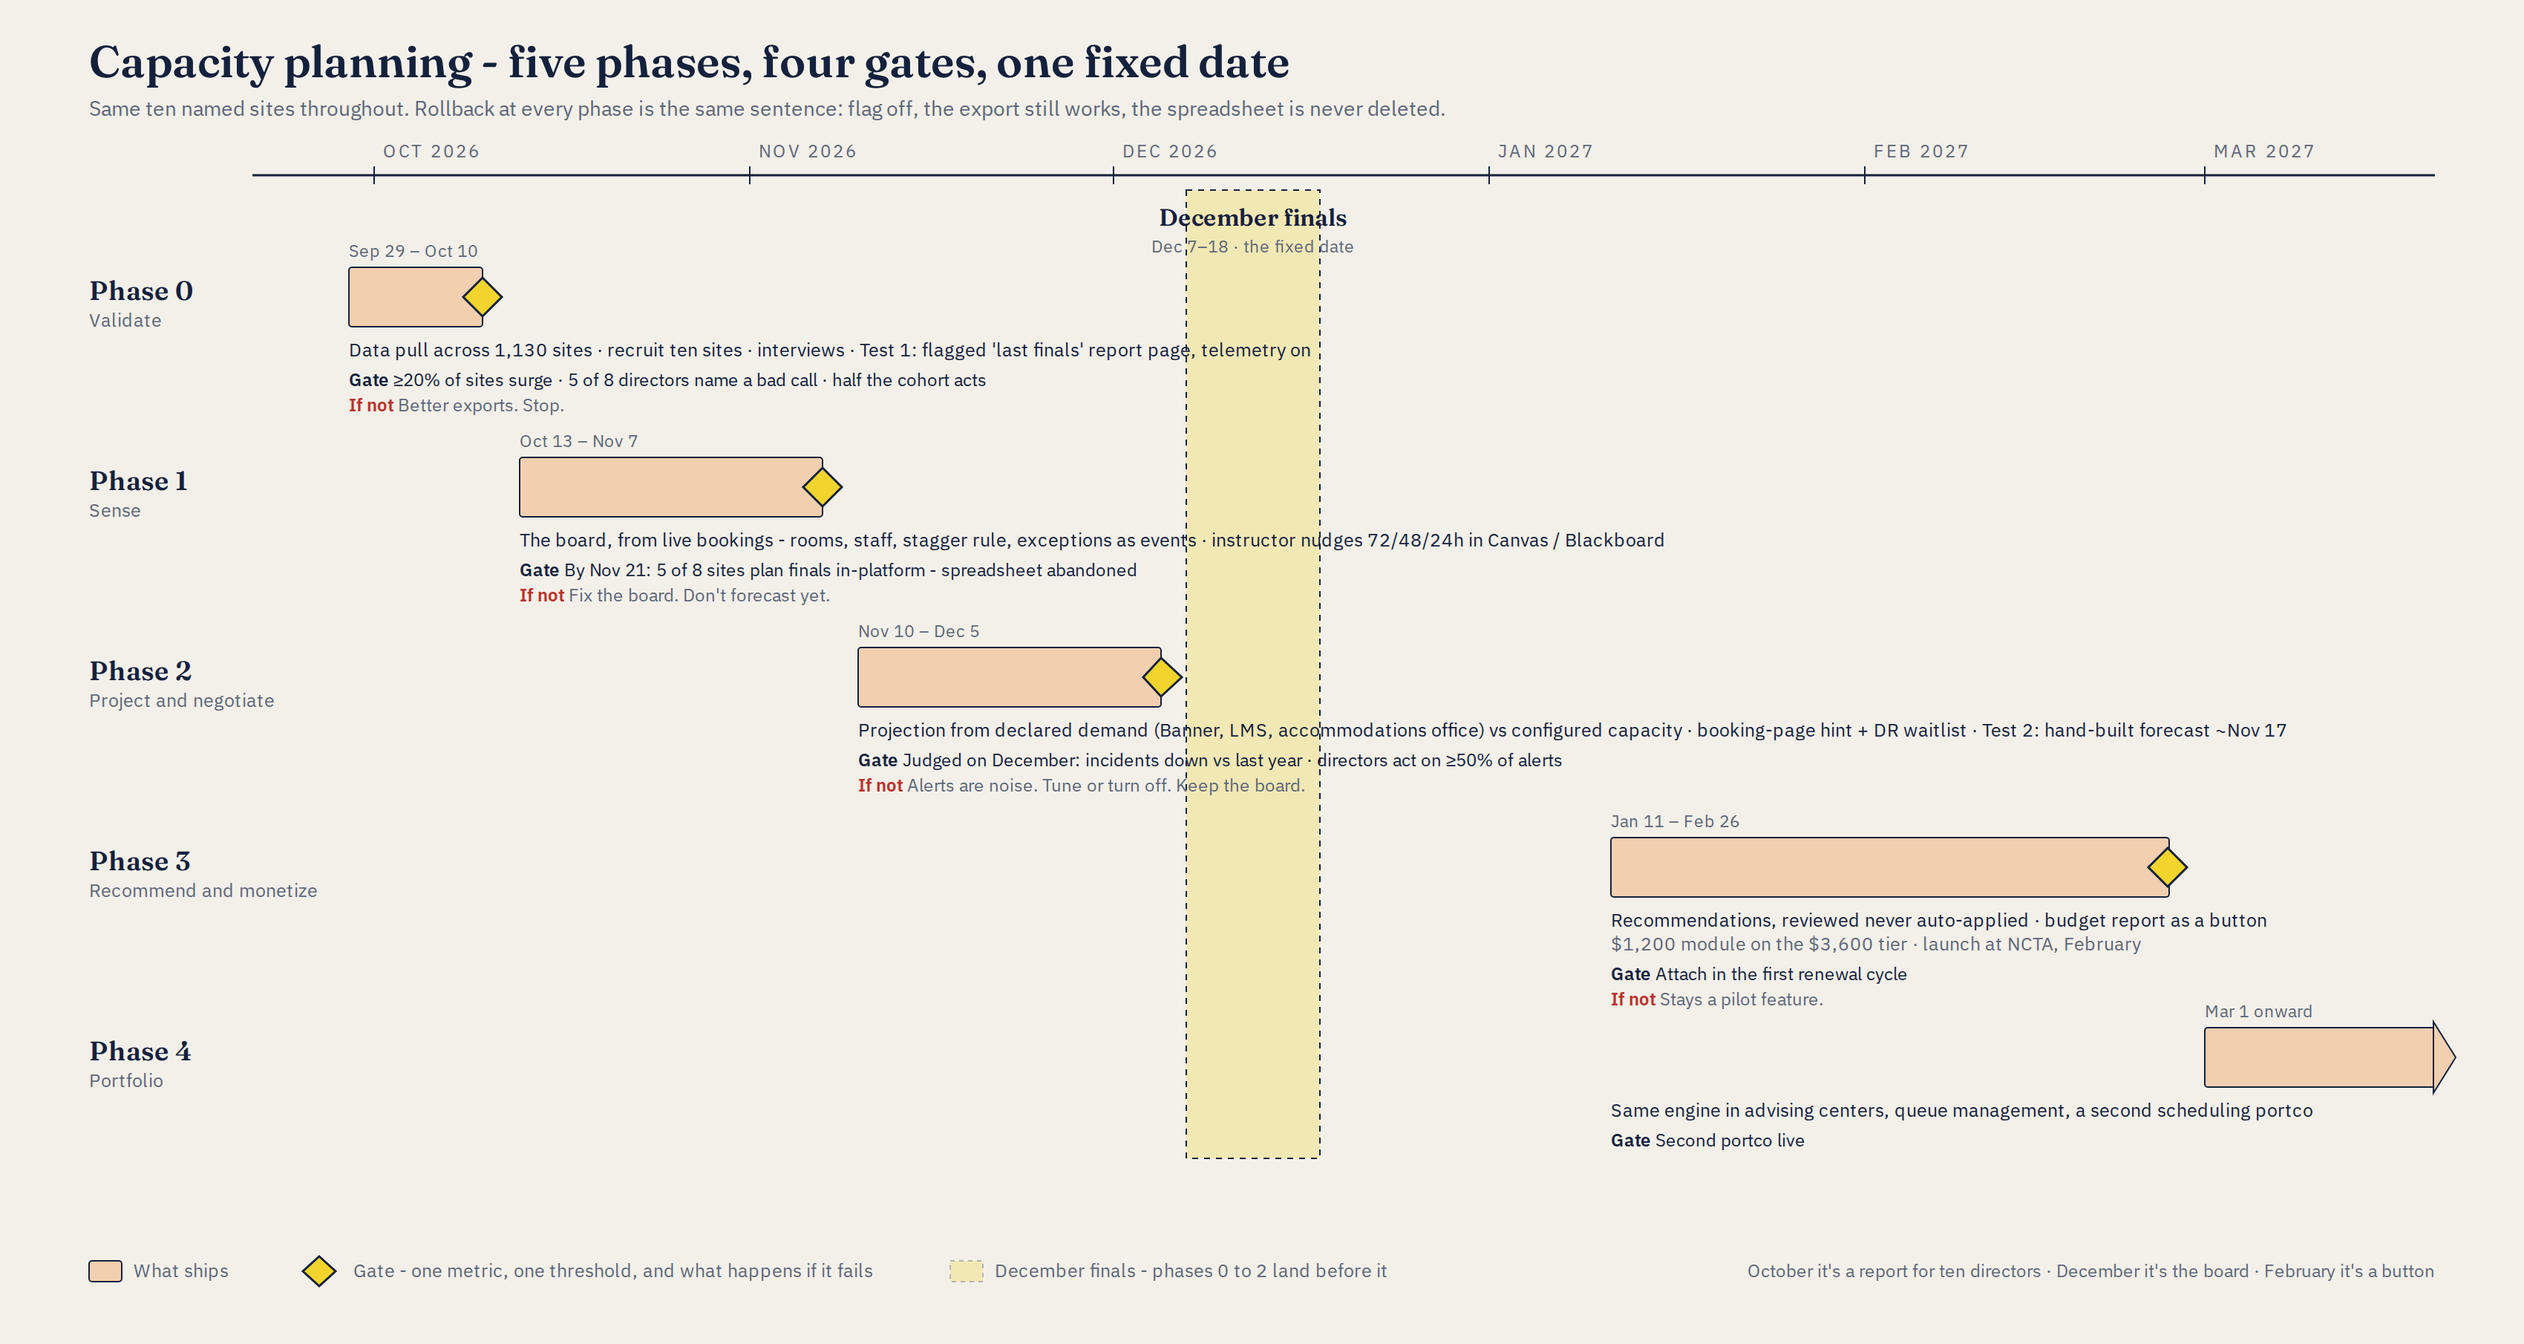
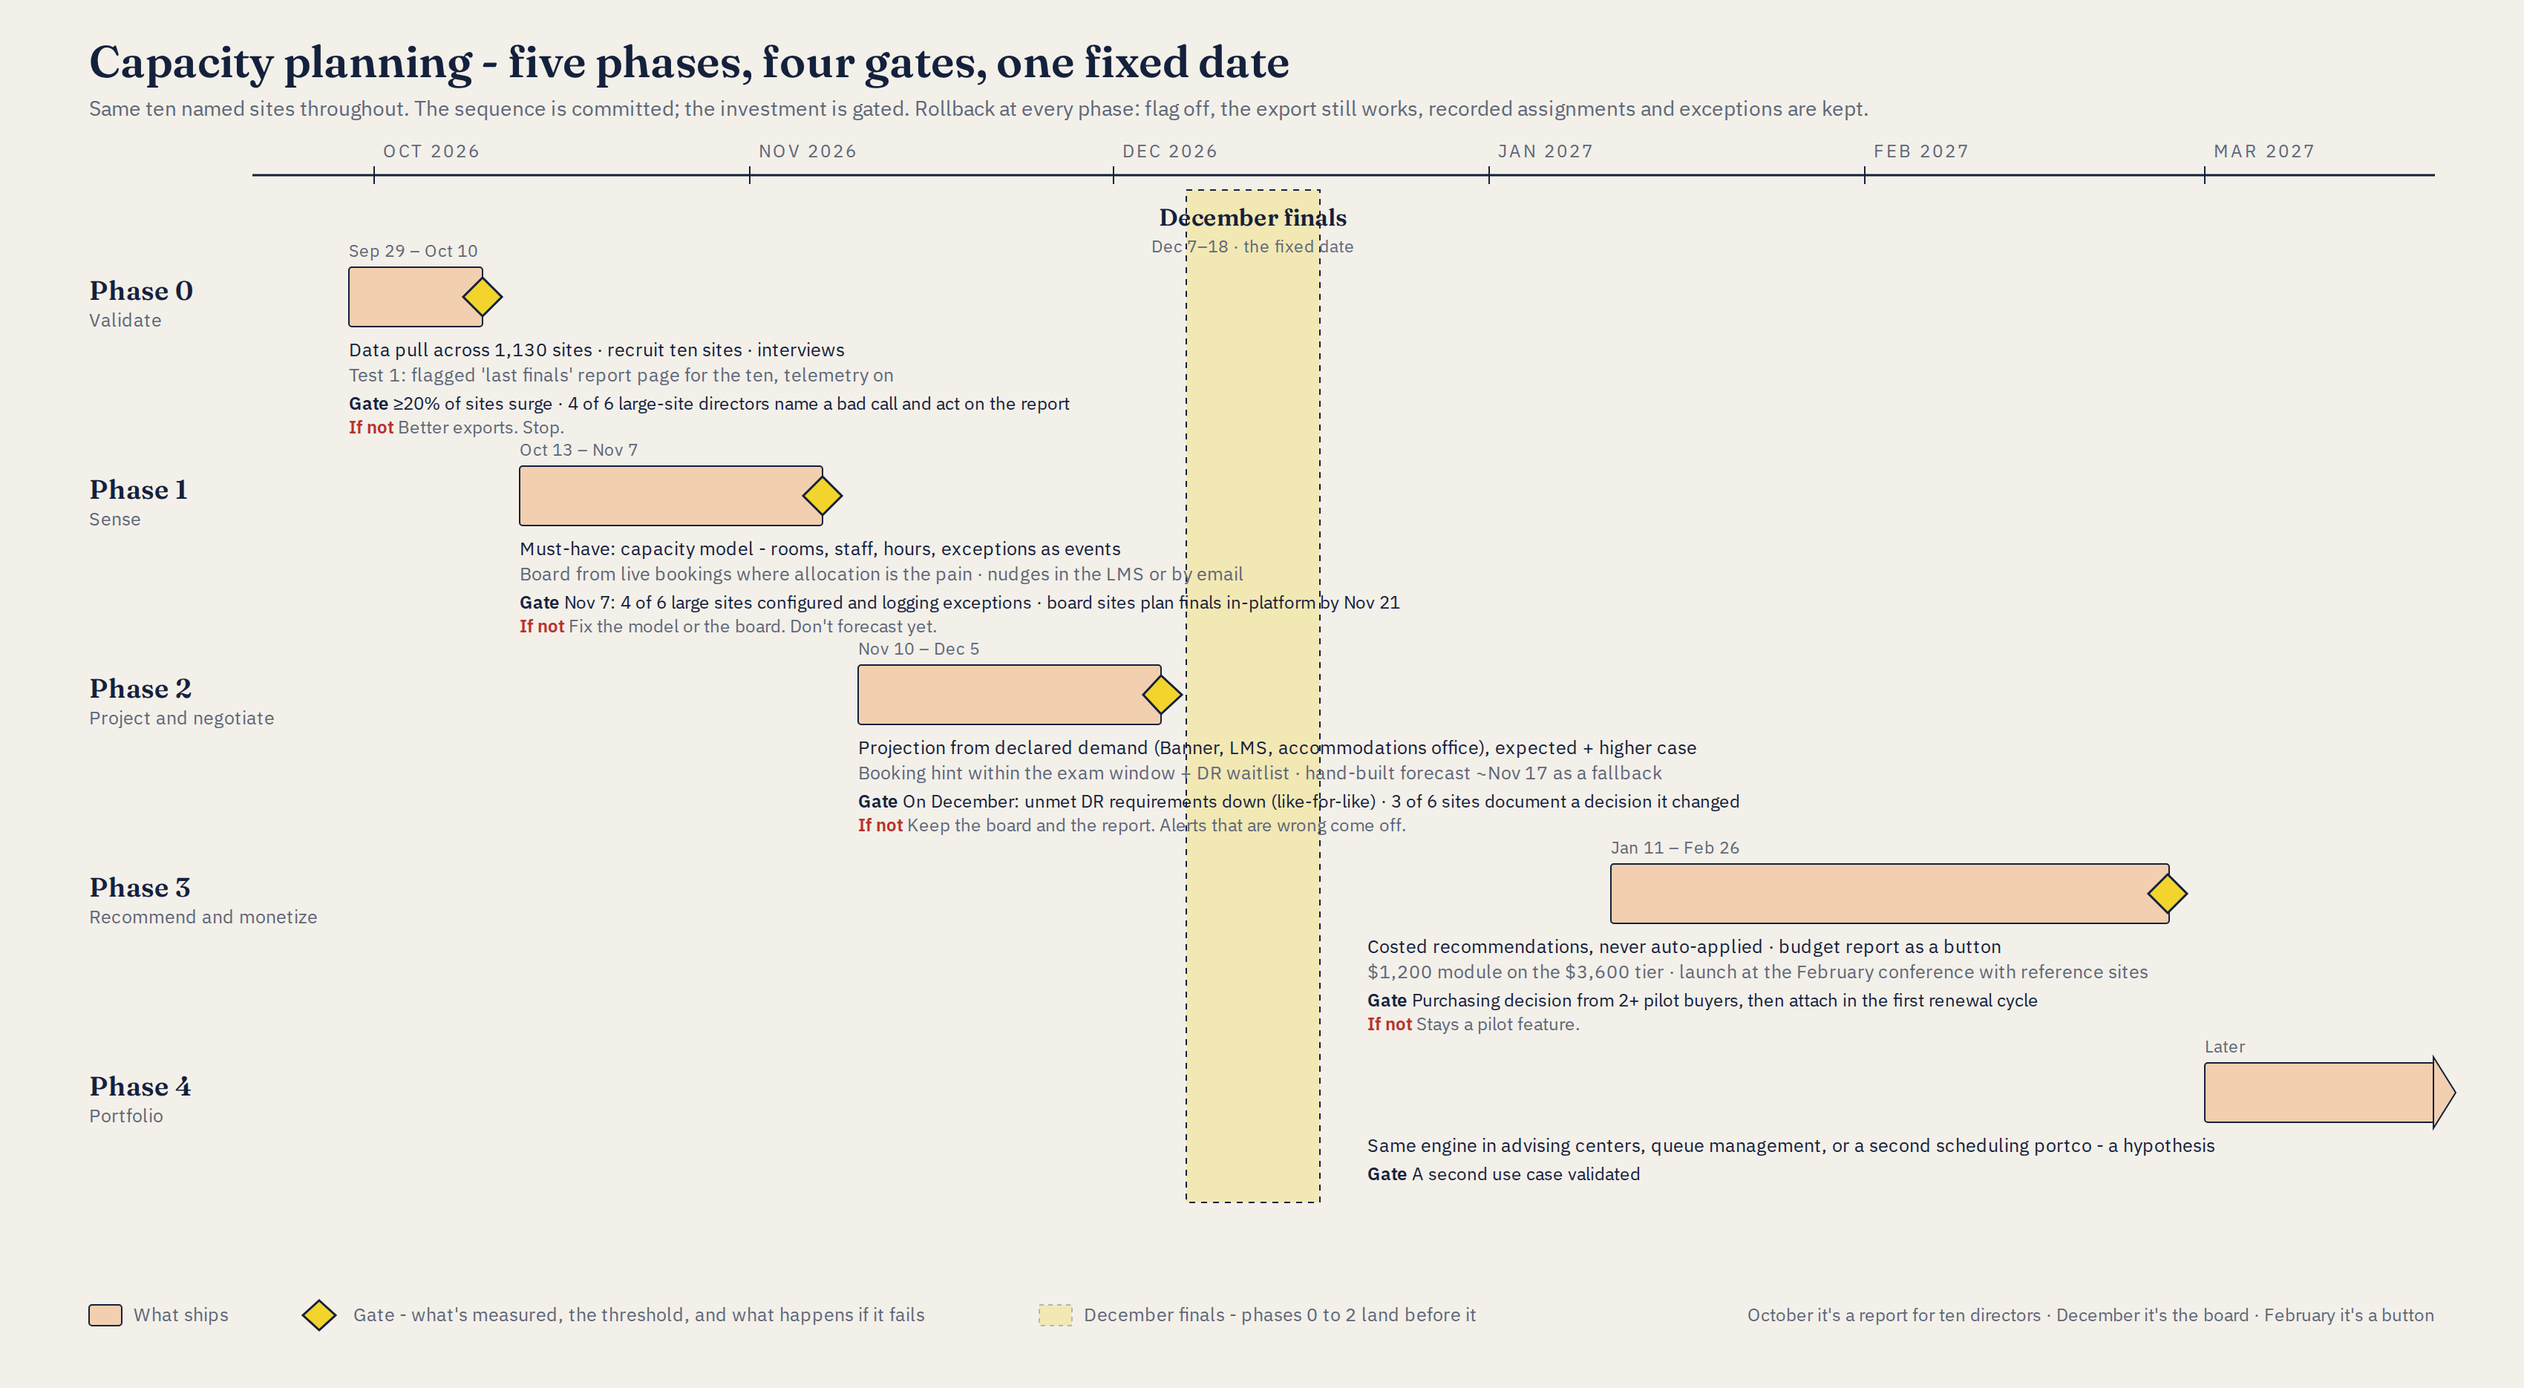
Timeline: Nov 7 gate, like-for-like December gate, purchasing decision before Phase 3, Phase 4 as a hypothesis

diff --git a/timeline.html b/timeline.html
@@ -4,10 +4,10 @@
 <style>html,body{margin:0;background:#F3F0E9;color:#14213D;font-family:"IBM Plex Sans",Helvetica,Arial,sans-serif}
 .wrap{max-width:1700px;margin:0 auto;padding:20px} svg{width:100%;height:auto;display:block}
 .foot{display:flex;justify-content:space-between;gap:12px;padding:8px 20px 28px;font-size:13px;color:#5E6779;max-width:1700px;margin:0 auto} a{color:#1F4E89}</style></head>
-<body><div class="wrap"><svg xmlns="http://www.w3.org/2000/svg" width="1700" height="900" viewBox="0 0 1700 900" font-family="IBM Plex Sans, Helvetica, Arial, sans-serif" font-size="14" fill="#14213D">
-<rect width="1700" height="900" fill="#F3F0E9"/>
+<body><div class="wrap"><svg xmlns="http://www.w3.org/2000/svg" width="1700" height="930" viewBox="0 0 1700 930" font-family="IBM Plex Sans, Helvetica, Arial, sans-serif" font-size="14" fill="#14213D">
+<rect width="1700" height="930" fill="#F3F0E9"/>
 <text x="60" y="52" font-family="Fraunces, Georgia, serif" font-size="30" font-weight="600">Capacity planning - five phases, four gates, one fixed date</text>
-<text x="60" y="78" fill="#5E6779" font-size="14">Same ten named sites throughout. Rollback at every phase is the same sentence: flag off, the export still works, the spreadsheet is never deleted.</text>
+<text x="60" y="78" fill="#5E6779" font-size="14">Same ten named sites throughout. The sequence is committed; the investment is gated. Rollback at every phase: flag off, the export still works, recorded assignments and exceptions are kept.</text>
 <line x1="170" y1="118" x2="1640" y2="118" stroke="#14213D" stroke-width="1.5"/>
 <line x1="252" y1="112" x2="252" y2="124" stroke="#14213D"/><text x="258" y="106" font-size="12" fill="#5E6779" letter-spacing="1.5">OCT 2026</text>
 <line x1="505" y1="112" x2="505" y2="124" stroke="#14213D"/><text x="511" y="106" font-size="12" fill="#5E6779" letter-spacing="1.5">NOV 2026</text>
@@ -15,46 +15,50 @@
 <line x1="1003" y1="112" x2="1003" y2="124" stroke="#14213D"/><text x="1009" y="106" font-size="12" fill="#5E6779" letter-spacing="1.5">JAN 2027</text>
 <line x1="1256" y1="112" x2="1256" y2="124" stroke="#14213D"/><text x="1262" y="106" font-size="12" fill="#5E6779" letter-spacing="1.5">FEB 2027</text>
 <line x1="1485" y1="112" x2="1485" y2="124" stroke="#14213D"/><text x="1491" y="106" font-size="12" fill="#5E6779" letter-spacing="1.5">MAR 2027</text>
-<rect x="799" y="128" width="90" height="652" fill="#F2D42C" opacity=".28"/><rect x="799" y="128" width="90" height="652" fill="none" stroke="#14213D" stroke-dasharray="4 4"/>
+<rect x="799" y="128" width="90" height="682" fill="#F2D42C" opacity=".28"/><rect x="799" y="128" width="90" height="682" fill="none" stroke="#14213D" stroke-dasharray="4 4"/>
 <text x="844" y="152" text-anchor="middle" font-family="Fraunces, Georgia, serif" font-size="16" font-weight="600">December finals</text><text x="844" y="170" text-anchor="middle" font-size="11.5" fill="#5E6779">Dec 7–18 · the fixed date</text>
 <text x="60" y="202" font-family="Fraunces, Georgia, serif" font-size="18" font-weight="600">Phase 0</text><text x="60" y="220" font-size="12.5" fill="#5E6779">Validate</text>
 <rect x="235" y="180" width="90" height="40" fill="#F2CFAF" stroke="#14213D" rx="2"/>
 <text x="235" y="173" font-size="11.5" fill="#5E6779">Sep 29 – Oct 10</text>
-<text x="235" y="240" font-size="12.5">Data pull across 1,130 sites · recruit ten sites · interviews · Test 1: flagged 'last finals' report page, telemetry on</text>
-<text x="235" y="260" font-size="12"><tspan font-weight="600">Gate</tspan> ≥20% of sites surge · 5 of 8 directors name a bad call · half the cohort acts</text>
-<text x="235" y="277" font-size="12"><tspan font-weight="600" fill="#B8322B">If not</tspan> <tspan fill="#5E6779">Better exports. Stop.</tspan></text>
+<text x="235" y="240" font-size="12.5">Data pull across 1,130 sites · recruit ten sites · interviews</text>
+<text x="235" y="257" font-size="12.5" fill="#5E6779">Test 1: flagged 'last finals' report page for the ten, telemetry on</text>
+<text x="235" y="276" font-size="12"><tspan font-weight="600">Gate</tspan> ≥20% of sites surge · 4 of 6 large-site directors name a bad call and act on the report</text>
+<text x="235" y="292" font-size="12"><tspan font-weight="600" fill="#B8322B">If not</tspan> <tspan fill="#5E6779">Better exports. Stop.</tspan></text>
 <polygon points="325,187 338,200 325,213 312,200" fill="#F2D42C" stroke="#14213D" stroke-width="1.5"/>
-<text x="60" y="330" font-family="Fraunces, Georgia, serif" font-size="18" font-weight="600">Phase 1</text><text x="60" y="348" font-size="12.5" fill="#5E6779">Sense</text>
-<rect x="350" y="308" width="204" height="40" fill="#F2CFAF" stroke="#14213D" rx="2"/>
-<text x="350" y="301" font-size="11.5" fill="#5E6779">Oct 13 – Nov 7</text>
-<text x="350" y="368" font-size="12.5">The board, from live bookings - rooms, staff, stagger rule, exceptions as events · instructor nudges 72/48/24h in Canvas / Blackboard</text>
-<text x="350" y="388" font-size="12"><tspan font-weight="600">Gate</tspan> By Nov 21: 5 of 8 sites plan finals in-platform - spreadsheet abandoned</text>
-<text x="350" y="405" font-size="12"><tspan font-weight="600" fill="#B8322B">If not</tspan> <tspan fill="#5E6779">Fix the board. Don't forecast yet.</tspan></text>
-<polygon points="554,315 567,328 554,341 541,328" fill="#F2D42C" stroke="#14213D" stroke-width="1.5"/>
-<text x="60" y="458" font-family="Fraunces, Georgia, serif" font-size="18" font-weight="600">Phase 2</text><text x="60" y="476" font-size="12.5" fill="#5E6779">Project and negotiate</text>
-<rect x="578" y="436" width="204" height="40" fill="#F2CFAF" stroke="#14213D" rx="2"/>
-<text x="578" y="429" font-size="11.5" fill="#5E6779">Nov 10 – Dec 5</text>
-<text x="578" y="496" font-size="12.5">Projection from declared demand (Banner, LMS, accommodations office) vs configured capacity · booking-page hint + DR waitlist · Test 2: hand-built forecast ~Nov 17</text>
-<text x="578" y="516" font-size="12"><tspan font-weight="600">Gate</tspan> Judged on December: incidents down vs last year · directors act on ≥50% of alerts</text>
-<text x="578" y="533" font-size="12"><tspan font-weight="600" fill="#B8322B">If not</tspan> <tspan fill="#5E6779">Alerts are noise. Tune or turn off. Keep the board.</tspan></text>
-<polygon points="782,443 796,456 782,469 770,456" fill="#F2D42C" stroke="#14213D" stroke-width="1.5"/>
-<text x="60" y="586" font-family="Fraunces, Georgia, serif" font-size="18" font-weight="600">Phase 3</text><text x="60" y="604" font-size="12.5" fill="#5E6779">Recommend and monetize</text>
-<rect x="1085" y="564" width="376" height="40" fill="#F2CFAF" stroke="#14213D" rx="2"/>
-<text x="1085" y="557" font-size="11.5" fill="#5E6779">Jan 11 – Feb 26</text>
-<text x="1085" y="624" font-size="12.5">Recommendations, reviewed never auto-applied · budget report as a button</text><text x="1085" y="640" font-size="12.5" fill="#5E6779">$1,200 module on the $3,600 tier · launch at NCTA, February</text>
-<text x="1085" y="660" font-size="12"><tspan font-weight="600">Gate</tspan> Attach in the first renewal cycle</text>
-<text x="1085" y="677" font-size="12"><tspan font-weight="600" fill="#B8322B">If not</tspan> <tspan fill="#5E6779">Stays a pilot feature.</tspan></text>
-<polygon points="1460,571 1473,584 1460,597 1447,584" fill="#F2D42C" stroke="#14213D" stroke-width="1.5"/>
-<text x="60" y="714" font-family="Fraunces, Georgia, serif" font-size="18" font-weight="600">Phase 4</text><text x="60" y="732" font-size="12.5" fill="#5E6779">Portfolio</text>
-<rect x="1485" y="692" width="155" height="40" fill="#F2CFAF" stroke="#14213D" rx="2"/>
-<polygon points="1639,688 1654,712 1639,736" fill="#F2CFAF" stroke="#14213D"/>
-<text x="1485" y="685" font-size="11.5" fill="#5E6779">Mar 1 onward</text>
-<text x="1085" y="752" font-size="12.5">Same engine in advising centers, queue management, a second scheduling portco</text>
-<text x="1085" y="772" font-size="12"><tspan font-weight="600">Gate</tspan> Second portco live</text>
-<rect x="60" y="849" width="22" height="14" fill="#F2CFAF" stroke="#14213D" rx="2"/><text x="90" y="860" font-size="12.5" fill="#5E6779">What ships</text>
-<polygon points="215,846 226,856 215,866 204,856" fill="#F2D42C" stroke="#14213D" stroke-width="1.5"/><text x="238" y="860" font-size="12.5" fill="#5E6779">Gate - one metric, one threshold, and what happens if it fails</text>
-<rect x="640" y="849" width="22" height="14" fill="#F2D42C" opacity=".28" stroke="#14213D" stroke-dasharray="3 3"/><text x="670" y="860" font-size="12.5" fill="#5E6779">December finals - phases 0 to 2 land before it</text>
-<text x="1640" y="860" text-anchor="end" font-size="12" fill="#5E6779">October it's a report for ten directors · December it's the board · February it's a button</text>
+<text x="60" y="336" font-family="Fraunces, Georgia, serif" font-size="18" font-weight="600">Phase 1</text><text x="60" y="354" font-size="12.5" fill="#5E6779">Sense</text>
+<rect x="350" y="314" width="204" height="40" fill="#F2CFAF" stroke="#14213D" rx="2"/>
+<text x="350" y="307" font-size="11.5" fill="#5E6779">Oct 13 – Nov 7</text>
+<text x="350" y="374" font-size="12.5">Must-have: capacity model - rooms, staff, hours, exceptions as events</text>
+<text x="350" y="391" font-size="12.5" fill="#5E6779">Board from live bookings where allocation is the pain · nudges in the LMS or by email</text>
+<text x="350" y="410" font-size="12"><tspan font-weight="600">Gate</tspan> Nov 7: 4 of 6 large sites configured and logging exceptions · board sites plan finals in-platform by Nov 21</text>
+<text x="350" y="426" font-size="12"><tspan font-weight="600" fill="#B8322B">If not</tspan> <tspan fill="#5E6779">Fix the model or the board. Don't forecast yet.</tspan></text>
+<polygon points="554,321 567,334 554,347 541,334" fill="#F2D42C" stroke="#14213D" stroke-width="1.5"/>
+<text x="60" y="470" font-family="Fraunces, Georgia, serif" font-size="18" font-weight="600">Phase 2</text><text x="60" y="488" font-size="12.5" fill="#5E6779">Project and negotiate</text>
+<rect x="578" y="448" width="204" height="40" fill="#F2CFAF" stroke="#14213D" rx="2"/>
+<text x="578" y="441" font-size="11.5" fill="#5E6779">Nov 10 – Dec 5</text>
+<text x="578" y="508" font-size="12.5">Projection from declared demand (Banner, LMS, accommodations office), expected + higher case</text>
+<text x="578" y="525" font-size="12.5" fill="#5E6779">Booking hint within the exam window + DR waitlist · hand-built forecast ~Nov 17 as a fallback</text>
+<text x="578" y="544" font-size="12"><tspan font-weight="600">Gate</tspan> On December: unmet DR requirements down (like-for-like) · 3 of 6 sites document a decision it changed</text>
+<text x="578" y="560" font-size="12"><tspan font-weight="600" fill="#B8322B">If not</tspan> <tspan fill="#5E6779">Keep the board and the report. Alerts that are wrong come off.</tspan></text>
+<polygon points="782,455 796,468 782,481 770,468" fill="#F2D42C" stroke="#14213D" stroke-width="1.5"/>
+<text x="60" y="604" font-family="Fraunces, Georgia, serif" font-size="18" font-weight="600">Phase 3</text><text x="60" y="622" font-size="12.5" fill="#5E6779">Recommend and monetize</text>
+<rect x="1085" y="582" width="376" height="40" fill="#F2CFAF" stroke="#14213D" rx="2"/>
+<text x="1085" y="575" font-size="11.5" fill="#5E6779">Jan 11 – Feb 26</text>
+<text x="921" y="642" font-size="12.5">Costed recommendations, never auto-applied · budget report as a button</text>
+<text x="921" y="659" font-size="12.5" fill="#5E6779">$1,200 module on the $3,600 tier · launch at the February conference with reference sites</text>
+<text x="921" y="678" font-size="12"><tspan font-weight="600">Gate</tspan> Purchasing decision from 2+ pilot buyers, then attach in the first renewal cycle</text>
+<text x="921" y="694" font-size="12"><tspan font-weight="600" fill="#B8322B">If not</tspan> <tspan fill="#5E6779">Stays a pilot feature.</tspan></text>
+<polygon points="1460,589 1473,602 1460,615 1447,602" fill="#F2D42C" stroke="#14213D" stroke-width="1.5"/>
+<text x="60" y="738" font-family="Fraunces, Georgia, serif" font-size="18" font-weight="600">Phase 4</text><text x="60" y="756" font-size="12.5" fill="#5E6779">Portfolio</text>
+<rect x="1485" y="716" width="155" height="40" fill="#F2CFAF" stroke="#14213D" rx="2"/>
+<polygon points="1639,712 1654,736 1639,760" fill="#F2CFAF" stroke="#14213D"/>
+<text x="1485" y="709" font-size="11.5" fill="#5E6779">Later</text>
+<text x="921" y="776" font-size="12.5">Same engine in advising centers, queue management, or a second scheduling portco - a hypothesis</text>
+<text x="921" y="795" font-size="12"><tspan font-weight="600">Gate</tspan> A second use case validated</text>
+<rect x="60" y="879" width="22" height="14" fill="#F2CFAF" stroke="#14213D" rx="2"/><text x="90" y="890" font-size="12.5" fill="#5E6779">What ships</text>
+<polygon points="215,876 226,886 215,896 204,886" fill="#F2D42C" stroke="#14213D" stroke-width="1.5"/><text x="238" y="890" font-size="12.5" fill="#5E6779">Gate - what's measured, the threshold, and what happens if it fails</text>
+<rect x="700" y="879" width="22" height="14" fill="#F2D42C" opacity=".28" stroke="#14213D" stroke-dasharray="3 3"/><text x="730" y="890" font-size="12.5" fill="#5E6779">December finals - phases 0 to 2 land before it</text>
+<text x="1640" y="890" text-anchor="end" font-size="12" fill="#5E6779">October it's a report for ten directors · December it's the board · February it's a button</text>
 </svg></div>
 <div class="foot"><span>Part of the RegisterBuddy Capacity case study · <a href="./">open the prototype</a> · <a href="./?presenter=1">presenter view</a></span><span><a href="timeline.png">Download as PNG</a></span></div>
 </body></html>
